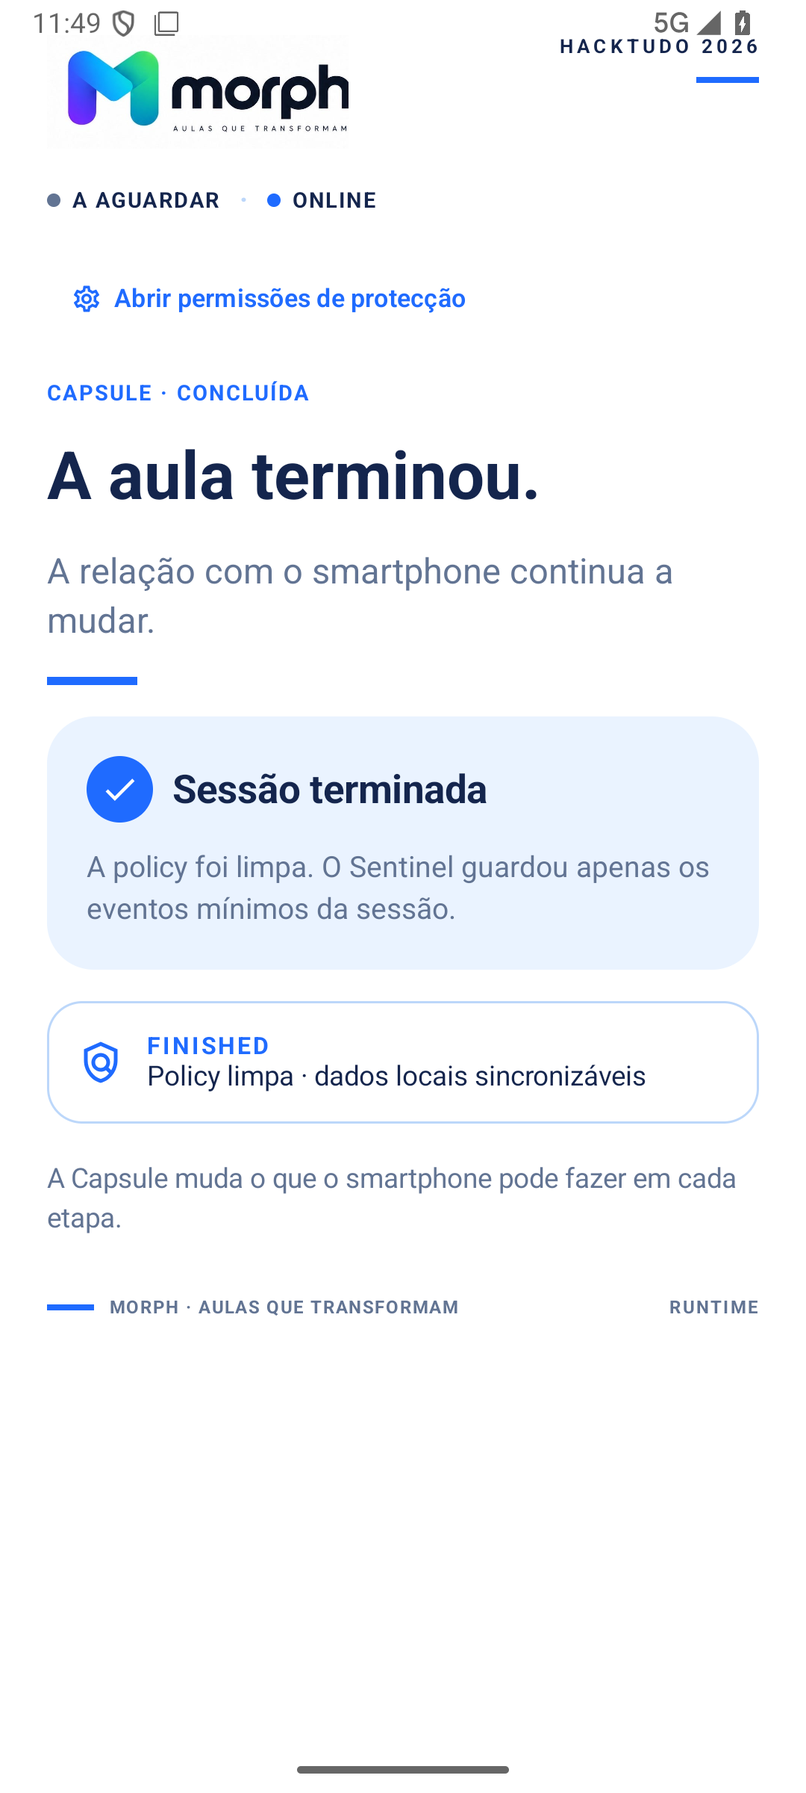
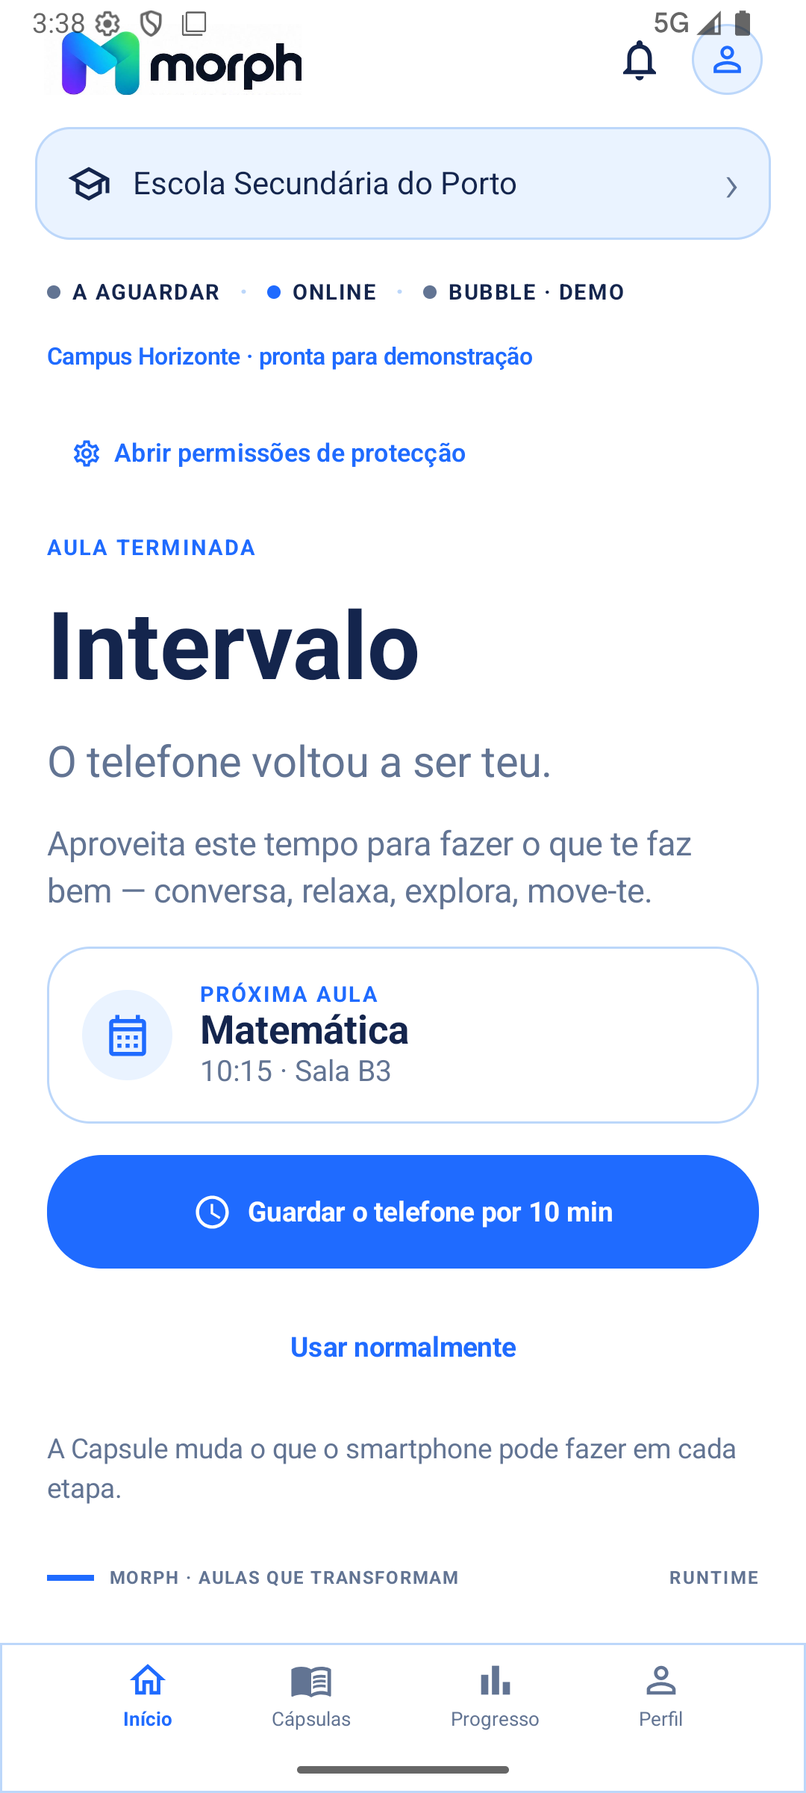
feat: complete reference-aligned live teacher surface

diff --git a/web/components/TeacherDashboard.tsx b/web/components/TeacherDashboard.tsx
@@ -12,15 +12,20 @@ import {
   ChartLine,
   Check,
   ChevronRight,
+  Clock3,
   Compass,
   Eye,
   FileCode2,
   Gauge,
   LoaderCircle,
+  MoreVertical,
+  Monitor,
   NotebookPen,
   Play,
+  ShieldCheck,
   Sparkles,
   Timer,
+  Users,
   X
 } from "lucide-react";
 import { withApprovedApps } from "@/lib/capsule";
@@ -80,7 +85,7 @@ const phaseAssets: Record<PhaseId, string> = {
   UNDERSTAND: "/assets/android/understand.png",
   MEASURE: "/assets/android/measure.png",
   ANALYSE: "/assets/android/measure.png",
-  REFLECT: "/assets/android/finished.png"
+  REFLECT: "/assets/android/reflect.png"
 };
 
 const capabilityMeta: Record<Capability, { label: string; icon: ComponentType<{ size?: number; strokeWidth?: number }> }> = {
@@ -319,6 +324,17 @@ export function TeacherDashboard({ initialCapsule }: { initialCapsule: LearningC
   }
 
   const isRuntimeConnected = Boolean(runtimeDevice);
+  const liveStudents = (school?.students ?? [])
+    .filter((student) => student.className === demoTeacher?.className)
+    .slice(0, 8);
+  const activePhaseMinutes = Math.max(1, Math.round(presentationPhase.duration / 60));
+  const phaseInstruction = presentationPhase.id === "MEASURE"
+    ? "Os alunos estão a recolher dados reais de movimento utilizando os recursos disponibilizados. Acompanhe o progresso da turma e dê apoio sempre que necessário."
+    : presentationPhase.id === "ANALYSE"
+      ? "Os alunos interpretam os resultados recolhidos e transformam os dados em evidência. Observe os padrões antes de avançar."
+      : presentationPhase.id === "REFLECT"
+        ? "Os alunos consolidam o que aprenderam e registam uma reflexão pessoal sobre a experiência."
+        : "Os alunos exploram o conceito e activam conhecimentos prévios antes de medir o fenómeno.";
 
   return (
     <StudioShell active="capsules" status={runtimeDevice ? `Android · ${runtimeDevice.connectivity}` : "Aguardando Android"}>
@@ -326,9 +342,9 @@ export function TeacherDashboard({ initialCapsule }: { initialCapsule: LearningC
         {view === "intent" ? (
           <section className="intent-stage" aria-labelledby="intent-title">
             <div className="stage-copy" data-enter>
-              <StudioSectionLabel>Passo 01 · Intenção pedagógica</StudioSectionLabel>
-              <h1 id="intent-title">O que os alunos vão aprender hoje?</h1>
-              <p>Descreva a aula. A Morph transforma a sua intenção numa experiência executável no telefone.</p>
+              <StudioSectionLabel>Passo 01</StudioSectionLabel>
+              <h1 id="intent-title">Criar a Cápsula</h1>
+              <p>Descreva a sua aula e o Morph organiza-a automaticamente numa sequência didáctica pronta a usar.</p>
             </div>
             <div className="capsule-summary" data-enter aria-label="Resumo da nova Capsule">
               <Image src="/assets/android/understand.png" alt="Pré-visualização da Capsule" width={92} height={62} />
@@ -336,21 +352,29 @@ export function TeacherDashboard({ initialCapsule }: { initialCapsule: LearningC
               <div><span>Turma</span><strong>10.º B</strong></div><div><span>Duração total</span><strong>30 min</strong></div><div><span>Estado</span><b>Rascunho</b></div>
             </div>
             <div className="intent-composer" data-enter>
-              <div className="composer-heading"><div><span className="composer-kicker">Criar Capsule</span><strong>Uma aula. Quatro funções.</strong></div><span className="composer-index">01</span></div>
-              <label htmlFor="lesson-intent">Descreve a aula que queres dar</label>
+              <div className="composer-heading"><div><span className="composer-kicker">O que pretende explorar?</span><strong>Escreva de forma simples e natural.</strong></div><span className="composer-index">01</span></div>
+              <p className="composer-description">Descreva o tema, os objectivos, o tipo de actividades ou qualquer ideia.</p>
+              <label htmlFor="lesson-intent">Descrição da aula</label>
               <textarea
                 id="lesson-intent"
                 value={intent}
                 onChange={(event) => setIntent(event.target.value)}
                 placeholder="Descreva o que os alunos vão aprender e fazer..."
               />
+              <div className="intent-suggestions">
+                <span>Sugestões rápidas</span>
+                <div>
+                  {["Explicação curta", "Experiência prática", "Análise de dados", "Reflexão final"].map((suggestion) => <button type="button" key={suggestion} onClick={() => setIntent((current) => current.includes(suggestion) ? current : `${current} ${suggestion.toLowerCase()}.`)}>+&nbsp; {suggestion}</button>)}
+                </div>
+              </div>
               <div className="composer-footer">
-                <span><Check size={15} /> Funciona sem Internet</span>
+                <button className="secondary-action" type="button" onClick={() => setIntent(defaultIntent)}>Usar modelo</button>
                 <button className="main-action" type="button" disabled={isBusy} onClick={compileLesson}>
                   {isBusy ? <LoaderCircle className="spin" size={18} /> : <Sparkles size={18} />}
-                  Compilar a aula
+                  Gerar Cápsula <ArrowRight size={17} />
                 </button>
               </div>
+              <div className="composer-proof"><Check size={15} /> O Morph cria a estrutura com base em princípios de aprendizagem activa.</div>
               <div className="intent-proof">
                 <div className="proof-copy"><span>O mesmo smartphone</span><strong>metamorfoseia-se em cada fase.</strong></div>
                 <div className="proof-rail" aria-label="Fases da Capsule">
@@ -373,8 +397,8 @@ export function TeacherDashboard({ initialCapsule }: { initialCapsule: LearningC
           <section className="configuration-stage" aria-labelledby="configuration-title">
             <div className="configuration-heading" data-enter>
               <p className="stage-eyebrow">Passo 02 <span /> Configurar a Cápsula</p>
-              <h1 id="configuration-title">Defina o que o telefone pode fazer em cada etapa.</h1>
-              <p>As aplicações seleccionadas tornam-se capacidades disponíveis apenas durante a etapa escolhida.</p>
+              <h1 id="configuration-title">Configure a Cápsula</h1>
+              <p>Defina o que os seus alunos vão fazer, que ferramentas podem usar e como esta etapa contribui para a aprendizagem.</p>
             </div>
 
             <div className="configuration-workspace" data-enter>
@@ -418,19 +442,44 @@ export function TeacherDashboard({ initialCapsule }: { initialCapsule: LearningC
           </section>
         ) : (
           <section className="phase-stage" aria-labelledby="phase-title">
-            <div className="phase-stage-top" data-enter>
-              <p className="stage-eyebrow">Learning Capsule <span /> Movimento acelerado</p>
-              <span className="phase-count">Etapa {presentationIndex + 1} de {capsule.phases.length}</span>
+            <div className="live-session-heading" data-enter>
+              <div>
+                <button className="live-back-link" type="button" onClick={() => setView("intent")}><ArrowRight size={15} /> Voltar à cápsula</button>
+                <h1>Movimento Acelerado</h1>
+                <p>Explorar o movimento no mundo real</p>
+              </div>
+              <div className="live-heading-actions">
+                <span className="live-pill"><i /> {isSessionActive ? "AO VIVO" : "PRÉ-VISUALIZAÇÃO"}</span>
+                <button type="button" aria-label="Mais opções"><MoreVertical size={20} /></button>
+              </div>
             </div>
 
-            <div className="phase-demo-layout">
-              <div className={`phase-focus phase-${presentationPhase.id.toLowerCase()}`} data-enter>
-                <div className="phase-symbol"><PhaseIcon size={38} /></div>
-                <p className="phase-kicker">{isSessionActive ? "Fase ativa" : "Cápsula compilada"}</p>
-                <h1 id="phase-title">{phaseMeta[presentationPhase.id].label}</h1>
-                <p className="phase-description">{phaseMeta[presentationPhase.id].description}</p>
-                <div className="phase-detail"><FileCode2 size={17} /> {phaseMeta[presentationPhase.id].detail}</div>
-              </div>
+            <div className="live-session-meta" data-enter>
+              <div><Users size={21} /><span>Turma<strong>{demoTeacher?.className ?? "10.º B"}</strong></span></div>
+              <div><Users size={21} /><span>Alunos<strong>{demoTeacher?.studentIds.length ?? 0} online</strong></span></div>
+              <div><Timer size={21} /><span>Duração<strong>{activePhaseMinutes} min / 30 min</strong></span></div>
+            </div>
+
+            <nav className="live-phase-rail" aria-label="Etapas da aula" data-enter>
+              {capsule.phases.map((phase, index) => {
+                const Icon = phaseMeta[phase.id].icon;
+                const isCurrent = phase.id === presentationPhase.id;
+                return <div className={isCurrent ? "live-phase-card current" : "live-phase-card"} key={phase.id}>
+                  <span className="live-phase-index">{String(index + 1).padStart(2, "0")}</span>
+                  <Icon size={23} />
+                  <span><strong>{phaseMeta[phase.id].label}</strong><small>{phaseMeta[phase.id].description}</small></span>
+                  {isCurrent ? <b>{activePhaseMinutes} min</b> : null}
+                </div>;
+              })}
+            </nav>
+
+            <div className="live-workspace" data-enter>
+              <article className={`live-instruction-panel phase-${presentationPhase.id.toLowerCase()}`}>
+                <div className="live-panel-heading"><span>Instruções da etapa</span><b><Clock3 size={16} /> {activePhaseMinutes} min restantes</b></div>
+                <div className="live-phase-title"><div className="phase-symbol"><PhaseIcon size={34} /></div><div><p className="phase-kicker">Etapa {presentationIndex + 1} de {capsule.phases.length}</p><h2 id="phase-title">{phaseMeta[presentationPhase.id].label}</h2></div></div>
+                <p className="live-instruction-copy">{phaseInstruction}</p>
+                <div className="live-info-banner">No final desta etapa, os dados serão automaticamente guardados no portefólio de cada aluno.</div>
+              </article>
               <aside className="phase-device-card" aria-label="Tela real do Android" data-enter>
                 <div className="phase-device-meta"><span>ANDROID RUNTIME</span><strong>{isSessionActive ? (isRuntimeConnected ? "AO VIVO" : "SIMULAÇÃO") : "PREVIEW"}</strong></div>
                 <div className="phase-device-image"><AndroidPhasePreview phase={presentationPhase.id} /></div>
@@ -438,16 +487,19 @@ export function TeacherDashboard({ initialCapsule }: { initialCapsule: LearningC
               </aside>
             </div>
 
-            <nav className="phase-navigation" aria-label="Etapas da aula" data-enter>
-              {capsule.phases.map((phase, index) => {
-                const isCurrent = phase.id === presentationPhase.id;
-                return <div className={isCurrent ? "phase-nav-item current" : "phase-nav-item"} key={phase.id}>
-                  <span>{String(index + 1).padStart(2, "0")}</span>
-                  <strong>{phaseMeta[phase.id].label}</strong>
-                  {index < capsule.phases.length - 1 ? <ChevronRight size={16} /> : null}
-                </div>;
-              })}
-            </nav>
+            <div className="live-lower-grid" data-enter>
+              <section className="live-students-panel" aria-label="Alunos da sessão">
+                <div className="live-panel-heading"><span>Alunos ({demoTeacher?.studentIds.length ?? 0})</span><span className="live-tabs"><b>Em aula ({Math.max(0, (demoTeacher?.studentIds.length ?? 0) - 2)})</b><span>Local (2)</span><span>Com alertas (1)</span></span></div>
+                <div className="live-student-grid">
+                  {liveStudents.map((student, index) => <div className="live-student" key={student.id}><span className={`student-dot ${index === 2 ? "warning" : ""}`} /><div><strong>{student.name}</strong><small>Última actividade há {index + 1} min</small></div><span className={index === 1 ? "student-status local" : "student-status"}>{index === 1 ? "Local" : "Em aula"}</span></div>)}
+                </div>
+              </section>
+              <aside className="sentinel-panel" aria-label="Sentinel">
+                <div className="live-panel-heading"><span><ShieldCheck size={21} /> Sentinel</span><b className="sentinel-ok"><i /> Tudo está bem</b></div>
+                <p>Acompanhamento em tempo real</p>
+                {(runtimeEvents.length > 0 ? runtimeEvents.slice(0, 3) : [{ id: "session", type: "SESSION", payload: "A sessão está pronta", occurredAt: Date.now(), receivedAt: Date.now(), phaseId: presentationPhase.id }]).map((event) => <div className="sentinel-event" key={event.id}><span>●</span><div><strong>{runtimeEventLabel[event.type] ?? "Sessão actualizada"}</strong><small>{event.payload}</small></div></div>)}
+              </aside>
+            </div>
 
             <div className="stage-action" data-enter>
               {!isSessionActive ? (

diff --git a/web/app/globals.css b/web/app/globals.css
@@ -356,3 +356,82 @@ body { background:var(--canvas); }
 .studio-page .intent-stage > .intent-composer { grid-area:composer; }
 .studio-page .intent-stage > .intent-device { grid-area:device; grid-column:auto; }
 @media (max-width:900px) { .studio-page .intent-stage { grid-template-columns:1fr; grid-template-areas:"copy" "summary" "composer" "device"; }.studio-page .intent-stage > .stage-copy,.studio-page .intent-stage > .capsule-summary,.studio-page .intent-stage > .intent-composer,.studio-page .intent-stage > .intent-device { grid-area:auto; } }
+
+/* Live classroom surface: the teacher sees the lesson, the device and the room together. */
+.studio-page .live-session-heading { display:flex; align-items:flex-start; justify-content:space-between; gap:24px; margin-bottom:14px; }
+.studio-page .live-session-heading h1 { margin:3px 0 2px; color:var(--ink); font-size:clamp(34px,3.5vw,48px); line-height:1; letter-spacing:-.055em; }
+.studio-page .live-session-heading p:not(.stage-eyebrow) { margin:0; color:var(--muted); font-size:15px; }
+.live-back-link { display:inline-flex; align-items:center; gap:6px; border:0; padding:0; color:var(--blue); background:transparent; font-size:12px; font-weight:800; }
+.live-back-link svg { transform:rotate(180deg); }
+.live-heading-actions { display:flex; align-items:center; gap:16px; padding-top:28px; }
+.live-heading-actions > button { display:grid; width:34px; height:34px; place-items:center; border:0; color:#5870b7; background:transparent; }
+.live-pill { display:inline-flex; align-items:center; gap:8px; border-radius:11px; padding:12px 17px; color:#bc1d3c; background:#ffe4ea; font-size:11px; font-weight:850; letter-spacing:.06em; }
+.live-pill i { width:9px; height:9px; border-radius:50%; background:#ed1f42; box-shadow:0 0 0 4px rgba(237,31,66,.12); }
+.live-session-meta { display:flex; gap:0; margin-bottom:16px; border-top:1px solid #e4ebf6; border-bottom:1px solid #e4ebf6; }
+.live-session-meta > div { display:flex; min-width:150px; align-items:center; gap:9px; border-right:1px solid #e4ebf6; padding:11px 22px 11px 0; margin-right:22px; color:var(--blue); }
+.live-session-meta span { display:grid; gap:2px; color:#8797b3; font-size:10px; }
+.live-session-meta strong { color:var(--ink); font-size:14px; }
+.live-phase-rail { display:grid; grid-template-columns:repeat(4,minmax(0,1fr)); gap:10px; margin-bottom:16px; }
+.live-phase-card { display:grid; min-height:74px; grid-template-columns:25px 28px minmax(0,1fr) auto; align-items:center; gap:9px; border:1px solid #e1e8f4; border-radius:12px; padding:10px 12px; color:#8b99b3; background:#fff; }
+.live-phase-card.current { border-color:#aebfff; color:var(--blue); background:#f0f2ff; box-shadow:0 7px 18px rgba(29,111,255,.08); }
+.live-phase-card > svg { color:#7888a9; }
+.live-phase-card.current > svg { color:var(--blue); }
+.live-phase-index { display:grid; width:25px; height:25px; place-items:center; border-radius:8px; color:#8291ae; background:#f2f5fb; font-size:10px; font-weight:850; }
+.live-phase-card.current .live-phase-index { color:var(--blue); background:#e0e6ff; }
+.live-phase-card > span:nth-child(3) { display:grid; min-width:0; gap:3px; }
+.live-phase-card strong { color:var(--ink); font-size:12px; }
+.live-phase-card.current strong { color:var(--blue); }
+.live-phase-card small { overflow:hidden; color:#8492ad; font-size:9px; line-height:1.25; text-overflow:ellipsis; white-space:nowrap; }
+.live-phase-card b { color:var(--blue); font-size:10px; white-space:nowrap; }
+.live-workspace { display:grid; grid-template-columns:minmax(0,1fr) 330px; gap:16px; }
+.live-instruction-panel,.studio-page .phase-device-card { min-height:286px; border:1px solid #dfe7f3; border-radius:16px; padding:20px; background:#fff; box-shadow:0 10px 28px rgba(46,73,140,.045); }
+.live-panel-heading { display:flex; min-height:24px; align-items:center; justify-content:space-between; gap:12px; color:var(--blue); font-size:12px; font-weight:800; }
+.live-panel-heading > b { display:inline-flex; align-items:center; gap:6px; border-radius:8px; padding:7px 10px; color:#5676ba; background:#edf5ff; font-size:10px; }
+.live-phase-title { display:flex; align-items:center; gap:13px; margin-top:17px; }
+.live-phase-title .phase-symbol { width:58px; height:58px; flex:0 0 auto; margin:0; border-radius:16px; }
+.live-phase-title .phase-kicker { margin:0 0 4px; }
+.live-phase-title h2 { margin:0; color:var(--ink); font-size:27px; letter-spacing:-.04em; }
+.live-instruction-copy { max-width:670px; margin:18px 0 0; color:#536684; font-size:15px; line-height:1.5; }
+.live-info-banner { margin-top:17px; border-radius:10px; padding:11px 14px; color:#5a70a5; background:#edf4ff; font-size:11px; line-height:1.4; }
+.studio-page .phase-device-card { padding:16px; }
+.studio-page .phase-device-image { height:284px; border-radius:17px; }
+.live-lower-grid { display:grid; grid-template-columns:minmax(0,1fr) 330px; gap:16px; margin-top:16px; }
+.live-students-panel,.sentinel-panel { min-width:0; border:1px solid #dfe7f3; border-radius:16px; padding:17px 19px; background:#fff; box-shadow:0 10px 28px rgba(46,73,140,.045); }
+.live-students-panel .live-panel-heading > span:first-child { color:var(--ink); font-size:15px; }
+.live-tabs { display:flex; align-items:center; gap:12px; color:#98a5bd; font-size:10px; font-weight:650; }
+.live-tabs b { color:var(--blue); border-bottom:2px solid var(--blue); padding-bottom:7px; }
+.live-student-grid { display:grid; grid-template-columns:repeat(2,minmax(0,1fr)); gap:8px; margin-top:12px; }
+.live-student { display:flex; min-width:0; align-items:center; gap:8px; border:1px solid #edf1f7; border-radius:9px; padding:8px 10px; }
+.student-dot { width:8px; height:8px; flex:0 0 auto; border-radius:50%; background:#29c987; box-shadow:0 0 0 3px #e3f8ee; }
+.student-dot.warning { background:#f1ab32; box-shadow:0 0 0 3px #fff2d6; }
+.live-student > div { display:grid; min-width:0; gap:2px; }
+.live-student strong { overflow:hidden; color:var(--ink); font-size:11px; text-overflow:ellipsis; white-space:nowrap; }
+.live-student small { color:#8c9ab2; font-size:9px; }
+.student-status { margin-left:auto; border-radius:999px; padding:4px 6px; color:#168b5b; background:#e3f9ed; font-size:8px; font-weight:800; }
+.student-status.local { color:#346bd1; background:#eaf2ff; }
+.sentinel-panel .live-panel-heading > span { display:inline-flex; align-items:center; gap:7px; color:var(--ink); font-size:15px; }
+.sentinel-panel .live-panel-heading > span svg { color:var(--blue); }
+.sentinel-ok { display:inline-flex; align-items:center; gap:5px; color:#168b5b !important; background:#e3f9ed; }
+.sentinel-ok i { width:6px; height:6px; border-radius:50%; background:#22b979; }
+.sentinel-panel > p { margin:5px 0 12px 28px; color:#8998b1; font-size:10px; }
+.sentinel-event { display:flex; gap:9px; border-top:1px solid #edf1f6; padding:10px 0 0; margin-top:8px; }
+.sentinel-event > span { color:#2bc487; font-size:15px; line-height:1; }
+.sentinel-event > div { display:grid; min-width:0; gap:2px; }
+.sentinel-event strong { color:var(--ink); font-size:10px; }
+.sentinel-event small { overflow:hidden; color:#8795ad; font-size:9px; text-overflow:ellipsis; white-space:nowrap; }
+.studio-page .phase-stage > .stage-action { margin-top:16px; }
+.studio-page .phase-stage > .runtime-live { max-width:none; margin-top:16px; }
+@media (max-width:1000px) { .live-workspace,.live-lower-grid { grid-template-columns:1fr; }.studio-page .phase-device-card { width:min(100%,430px); }.sentinel-panel { min-height:180px; } }
+@media (max-width:760px) { .live-session-heading { flex-direction:column; }.live-heading-actions { padding-top:0; }.live-session-meta { flex-wrap:wrap; }.live-session-meta > div { min-width:0; flex:1; padding-right:12px; margin-right:12px; }.live-phase-rail { grid-template-columns:repeat(2,minmax(0,1fr)); }.live-phase-card { grid-template-columns:22px 24px minmax(0,1fr); }.live-phase-card b { display:none; }.live-tabs { gap:7px; font-size:9px; }.live-student-grid { grid-template-columns:1fr; } }
+
+.studio-page .composer-description { margin:-10px 0 17px; color:var(--muted); font-size:12px; line-height:1.45; }
+.intent-suggestions { display:grid; gap:9px; margin-top:14px; }
+.intent-suggestions > span { color:#6b7897; font-size:11px; font-weight:800; }
+.intent-suggestions > div { display:flex; flex-wrap:wrap; gap:7px; }
+.intent-suggestions button,.secondary-action { border:1px solid #dce5f3; border-radius:999px; padding:7px 11px; color:#3d56a5; background:#fff; font-size:10px; font-weight:750; }
+.intent-suggestions button:hover,.secondary-action:hover { border-color:#a8bef5; background:#f5f8ff; }
+.studio-page .composer-footer { align-items:center; }
+.secondary-action { min-height:48px; padding-inline:17px; }
+.composer-proof { display:flex; align-items:center; gap:6px; margin-top:14px; color:#7d8bab; font-size:10px; }
+.composer-proof svg { color:var(--blue); }
+@media (max-width:560px) { .studio-page .composer-footer { align-items:stretch; }.secondary-action { width:100%; } }

diff --git a/design-qa.md b/design-qa.md
@@ -10,7 +10,9 @@
 ## Implementation evidence
 
 - Create state: `/tmp/morph-teacher-reference-final.png` — 1440 × 1100 px, Chrome headless, CSS viewport 1440 × 1100, device scale factor 1.
+- Create state (latest): `/tmp/morph-teacher-create-v2.png` — 1448 × 1086 px, Chrome headless, CSS viewport 1448 × 1086, device scale factor 1.
 - Live state: `/tmp/morph-teacher-live-rendered.png` — 1440 × 1100 px, Chrome headless, CSS viewport 1440 × 1100, device scale factor 1.
+- Live state (latest): `/tmp/morph-teacher-live-rich-v3.png` — 1448 × 1086 px, Chrome headless, CSS viewport 1448 × 1086, device scale factor 1.
 - School state: `/tmp/morph-school-reference-final.png` — 1440 × 1100 px, Chrome headless, CSS viewport 1440 × 1100, device scale factor 1.
 - Android shell/idle state: `/tmp/morph-android-chrome-final-2.png` — 1080 × 2400 px, Android emulator `emulator-5554`, post-splash capture.
 - Android Compreender state: `/tmp/morph-android-understand-final-2.png` — 1080 × 2400 px, live bridge session, post-splash capture.
@@ -22,6 +24,7 @@
 
 - `/teacher` create state with editable lesson intent and working “Compilar a aula” action.
 - `/teacher` live state after starting the bridge session; Android reported online and the live phase view was restored after reload.
+- `/teacher` live state now exposes the reference hierarchy: Capsule title/meta, four-phase rail, active-stage instructions, Android preview, class roster and Sentinel events.
 - `/school` shell and School Bubble configuration rendered without layout regressions.
 - Teacher navigation, primary action styles, responsive sidebar collapse and mobile bottom navigation were checked.
 - Android was rebuilt, installed and exercised against the live bridge through `UNDERSTAND → MEASURE → ANALYSE → REFLECT → FINISHED`; the real sensor card, phase rail, school context, logo, profile/bell chrome and bottom navigation rendered after the splash.
@@ -46,6 +49,7 @@
 2. Fixed by adding explicit final-precedence grid areas for heading, Capsule summary, composer and live preview.
 3. Re-captured `/tmp/morph-teacher-latest.png` and `/tmp/morph-school-latest.png`; shared shell, logo treatment and profile affordance have no actionable P0/P1/P2 mismatch.
 4. Rebuilt and installed Android, then captured the post-splash shell and every bridge-driven pedagogical phase; the mobile hierarchy, logo, navigation and phase surfaces have no actionable P0/P1/P2 mismatch.
+5. Replaced stale web Android preview captures with post-splash runtime captures and added a dedicated Reflectir capture, keeping the web preview consistent with the installed APK.
 
 ## Final result
 
